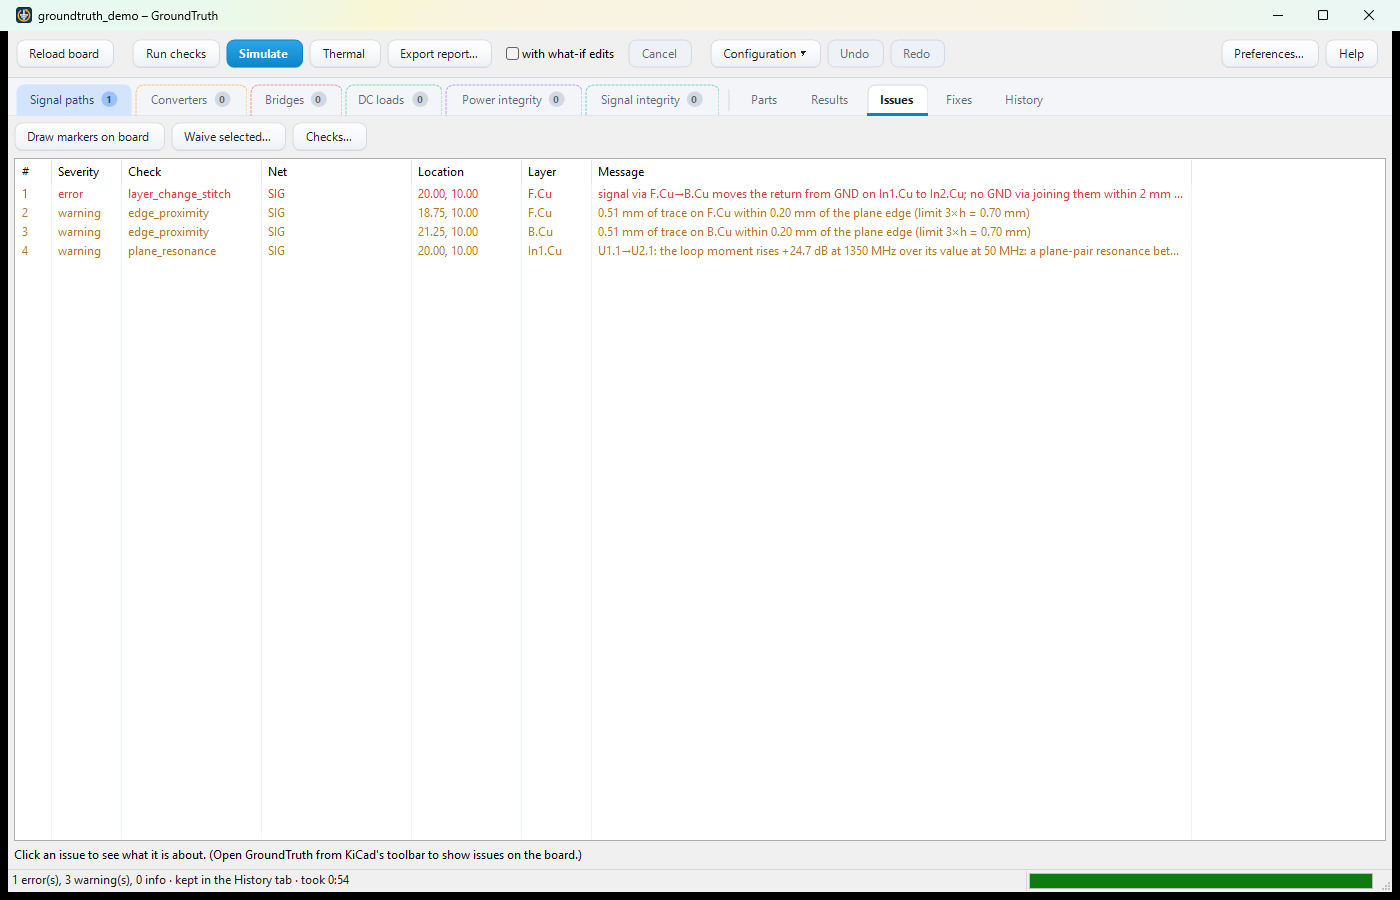
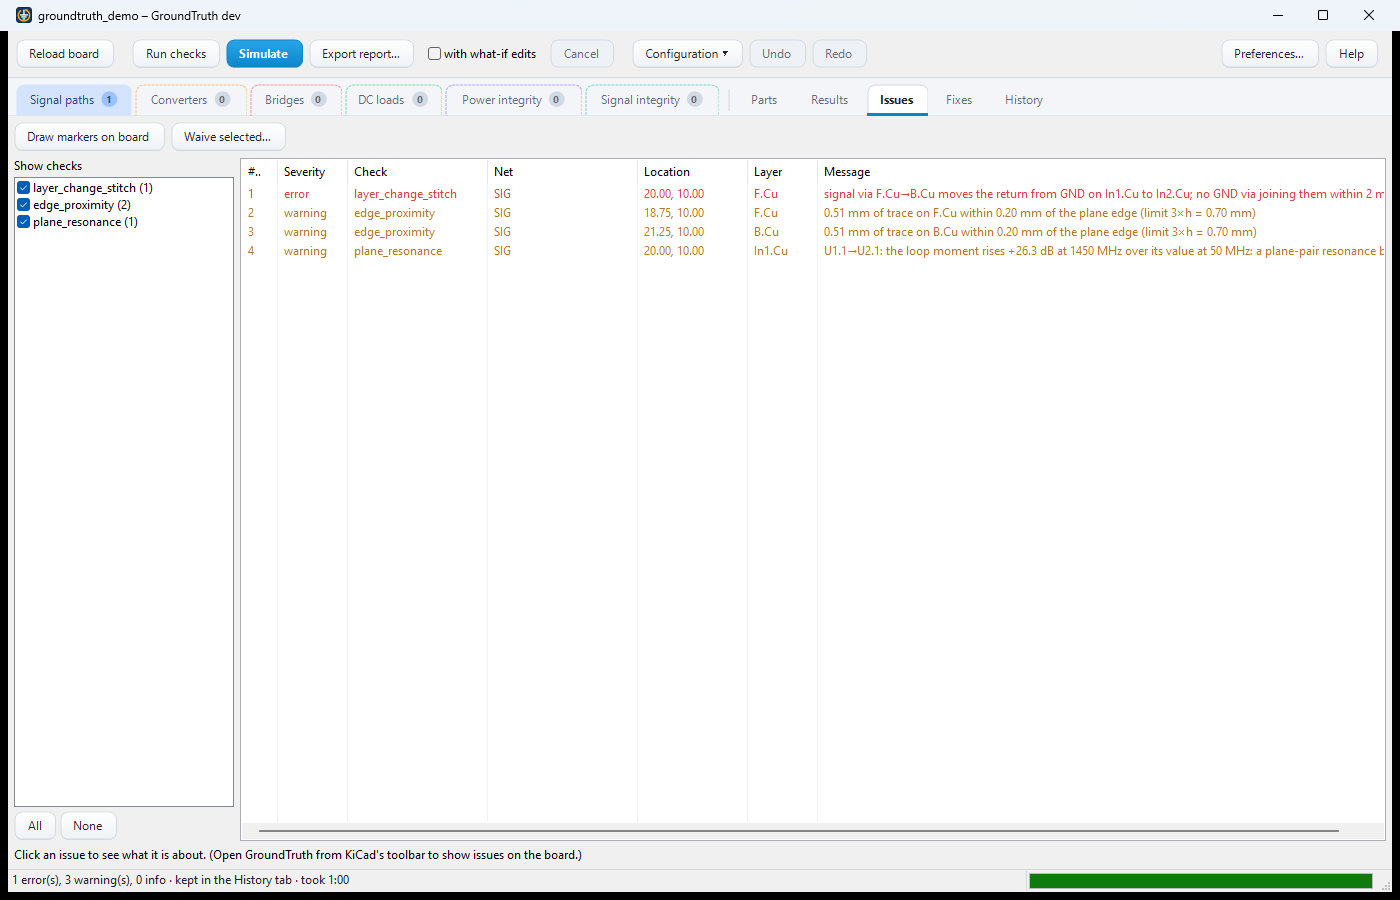
README: current screenshots (setup, results, issues) and three new ones (a stage's hot loop, the cross-section and spectrum, the Fixes tab with a proposed filter); the text names the Results menus and the stage design changes; status: November entry
Made with tools/dev/window_shot.py on the demo project and a synthetic buck.

diff --git a/README.md b/README.md
@@ -60,14 +60,31 @@ takes back a change.
 
 ![The Results tab after Simulate](docs/images/plugin-results.png)
 
-**Results.** The return current in each plane layer as a heatmap with current arrows, the vias that carry it between
-layers, a cross-section along the route and the emission spectrum against its limit. **Draw contours / arrows on
-board** puts them into KiCad.
+**Results.** The return current in each plane layer as a heatmap with current arrows, and the vias that carry it
+between layers. **Markers ▾** picks what is drawn over the map, **Draw on board ▾** puts the contours, the arrows or the
+hot loop into KiCad, **Open 3D view** opens the board in your browser, and **Further analysis ▾** adds the thermal
+solve, the current capacity of a stage and a sharper (finer) map.
+
+![A power stage's hot loop](docs/images/plugin-hotloop.png)
+
+A **power stage** gets its own views: here a buck's hot loop in two layers, with the busiest via, the loop inductance,
+the switch-node ringing, the input capacitors' share and the radiated and conducted margins in the tiles above it.
+
+![The cross-section and the emission spectrum](docs/images/plugin-results-plots.png)
+
+Scrolling down, the **cross-section** shows each plane layer's share of the return current along the route (red:
+carrying the return, blue: flowing the other way) and the **emission spectrum** against its limit.
 
 ![The Issues tab](docs/images/plugin-issues.png)
 
-**Issues.** Every finding with its severity; a click selects, highlights and zooms to it in KiCad. **Fixes** proposes
-stitching vias and capacitors, predicts and verifies them; **History** keeps every Simulate to compare; **Export
+**Issues.** Every finding with its severity; a click selects, highlights and zooms to it in KiCad.
+
+![The Fixes tab with a proposed input filter](docs/images/plugin-fixes.png)
+
+**Fixes** proposes stitching vias and capacitors for a route, and **design changes** for a power stage: a slower
+switch-node edge, a snubber, an input filter, a common-mode budget. Each is predicted, then verified by running the
+whole analysis again on a copy of the board, with its margins, overshoot and extra loss, the parts to buy and a
+circuit (here an input π-filter and its corner frequency). **History** keeps every Simulate to compare; **Export
 report…** writes the results as one HTML page. The plugin's own **Help** (F1) explains each tab.
 
 ## Install

diff --git a/docs/guide/status.md b/docs/guide/status.md
@@ -2,6 +2,14 @@
 
 What is done and what is planned. Back to the [README](../../README.md).
 
+- **Done (November 2026):**
+  - vias and through-hole pins join the planes as weights over the nodes round the barrel, so a result no longer jumps
+    when a via gains a joint [A95];
+  - plane screening: a plane between two others as one current sheet per face, off by default (Preferences,
+    `analysis.plane_screening`, `--plane-screening`) [A92, A93, A94];
+  - the plugin window stays responsive while a view is drawn: no figure is drawn inside a paint, a "Drawing…" card shows
+    while a view renders, the tab strip is cached, and the run statistics no longer stall Windows;
+  - audit round 8 of the field solver: its findings and fixes are in [VALIDATION_AUDIT.md](../VALIDATION_AUDIT.md).
 - **Done (latest, October 2026):**
   - the sources of every formula, method and theorem, and the model's assumptions, in [docs/REFERENCES.md](../../docs/REFERENCES.md) and in the help (References and assumptions); the code cites them where it uses them;
   - radiated limits other than CISPR 32: MIL-STD-461G RE102 built in, or a limit curve of your own; spread spectrum in the radiated estimate; MIL-STD-461G CE101;
